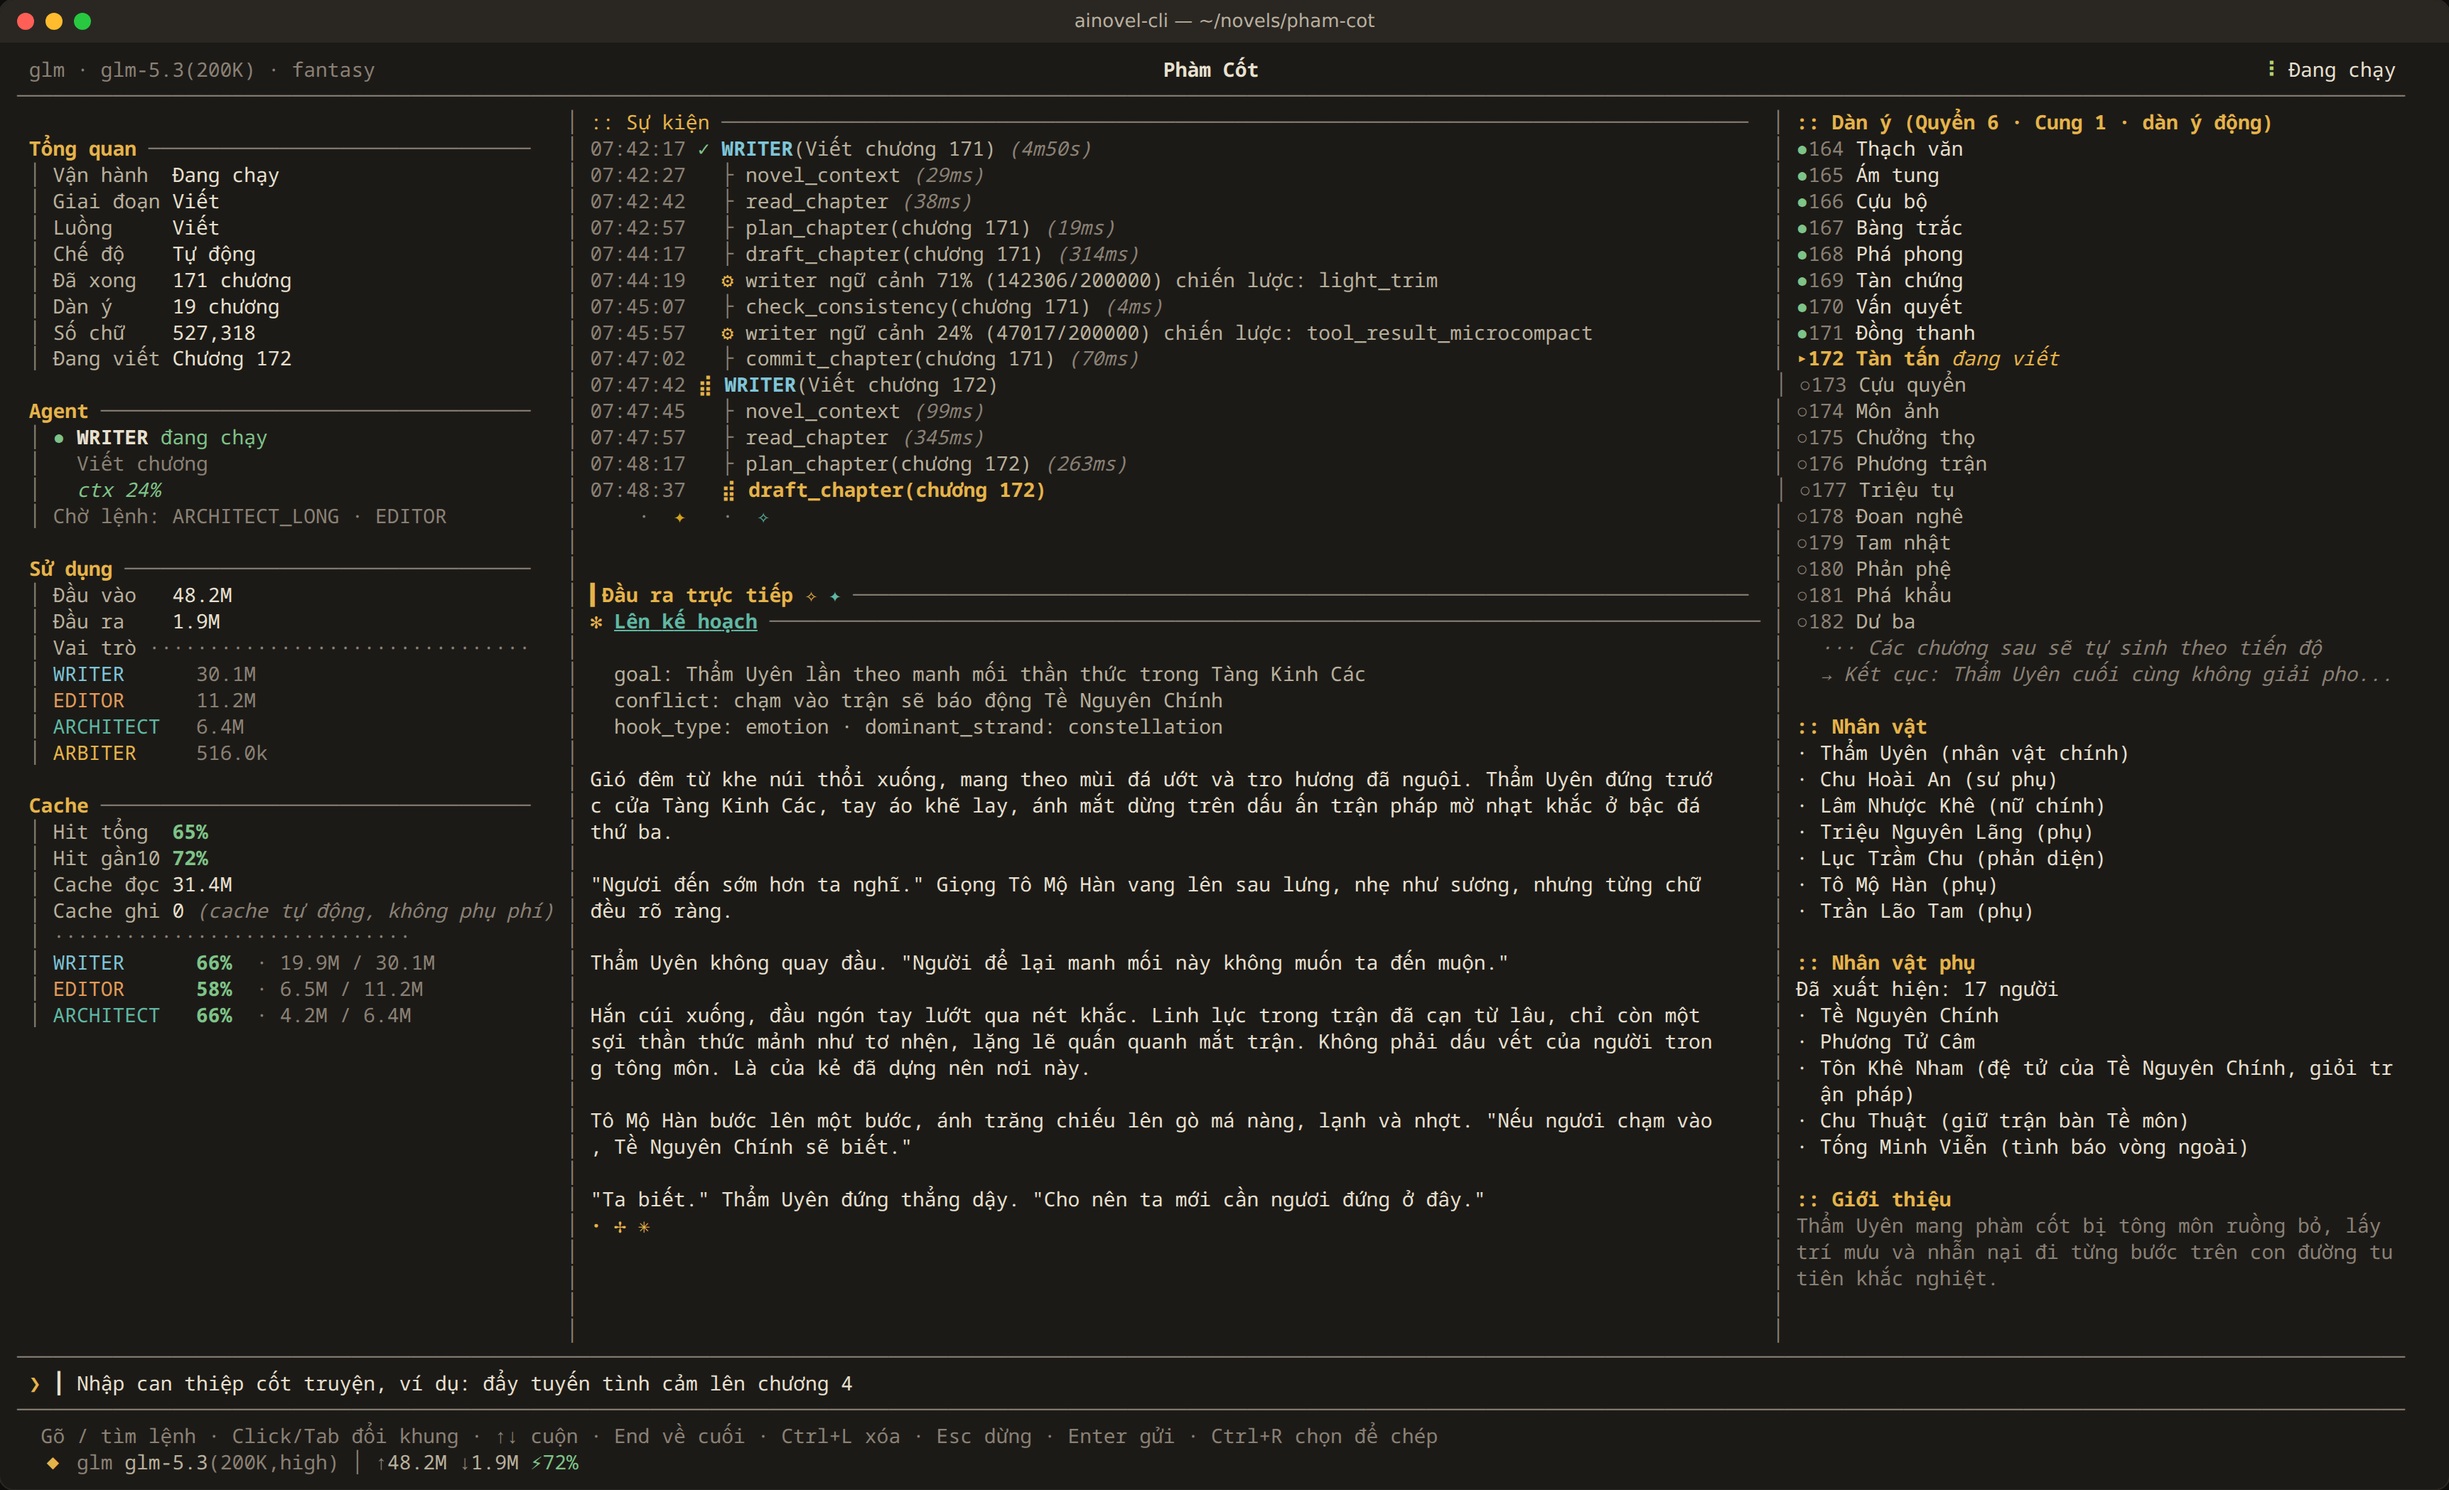
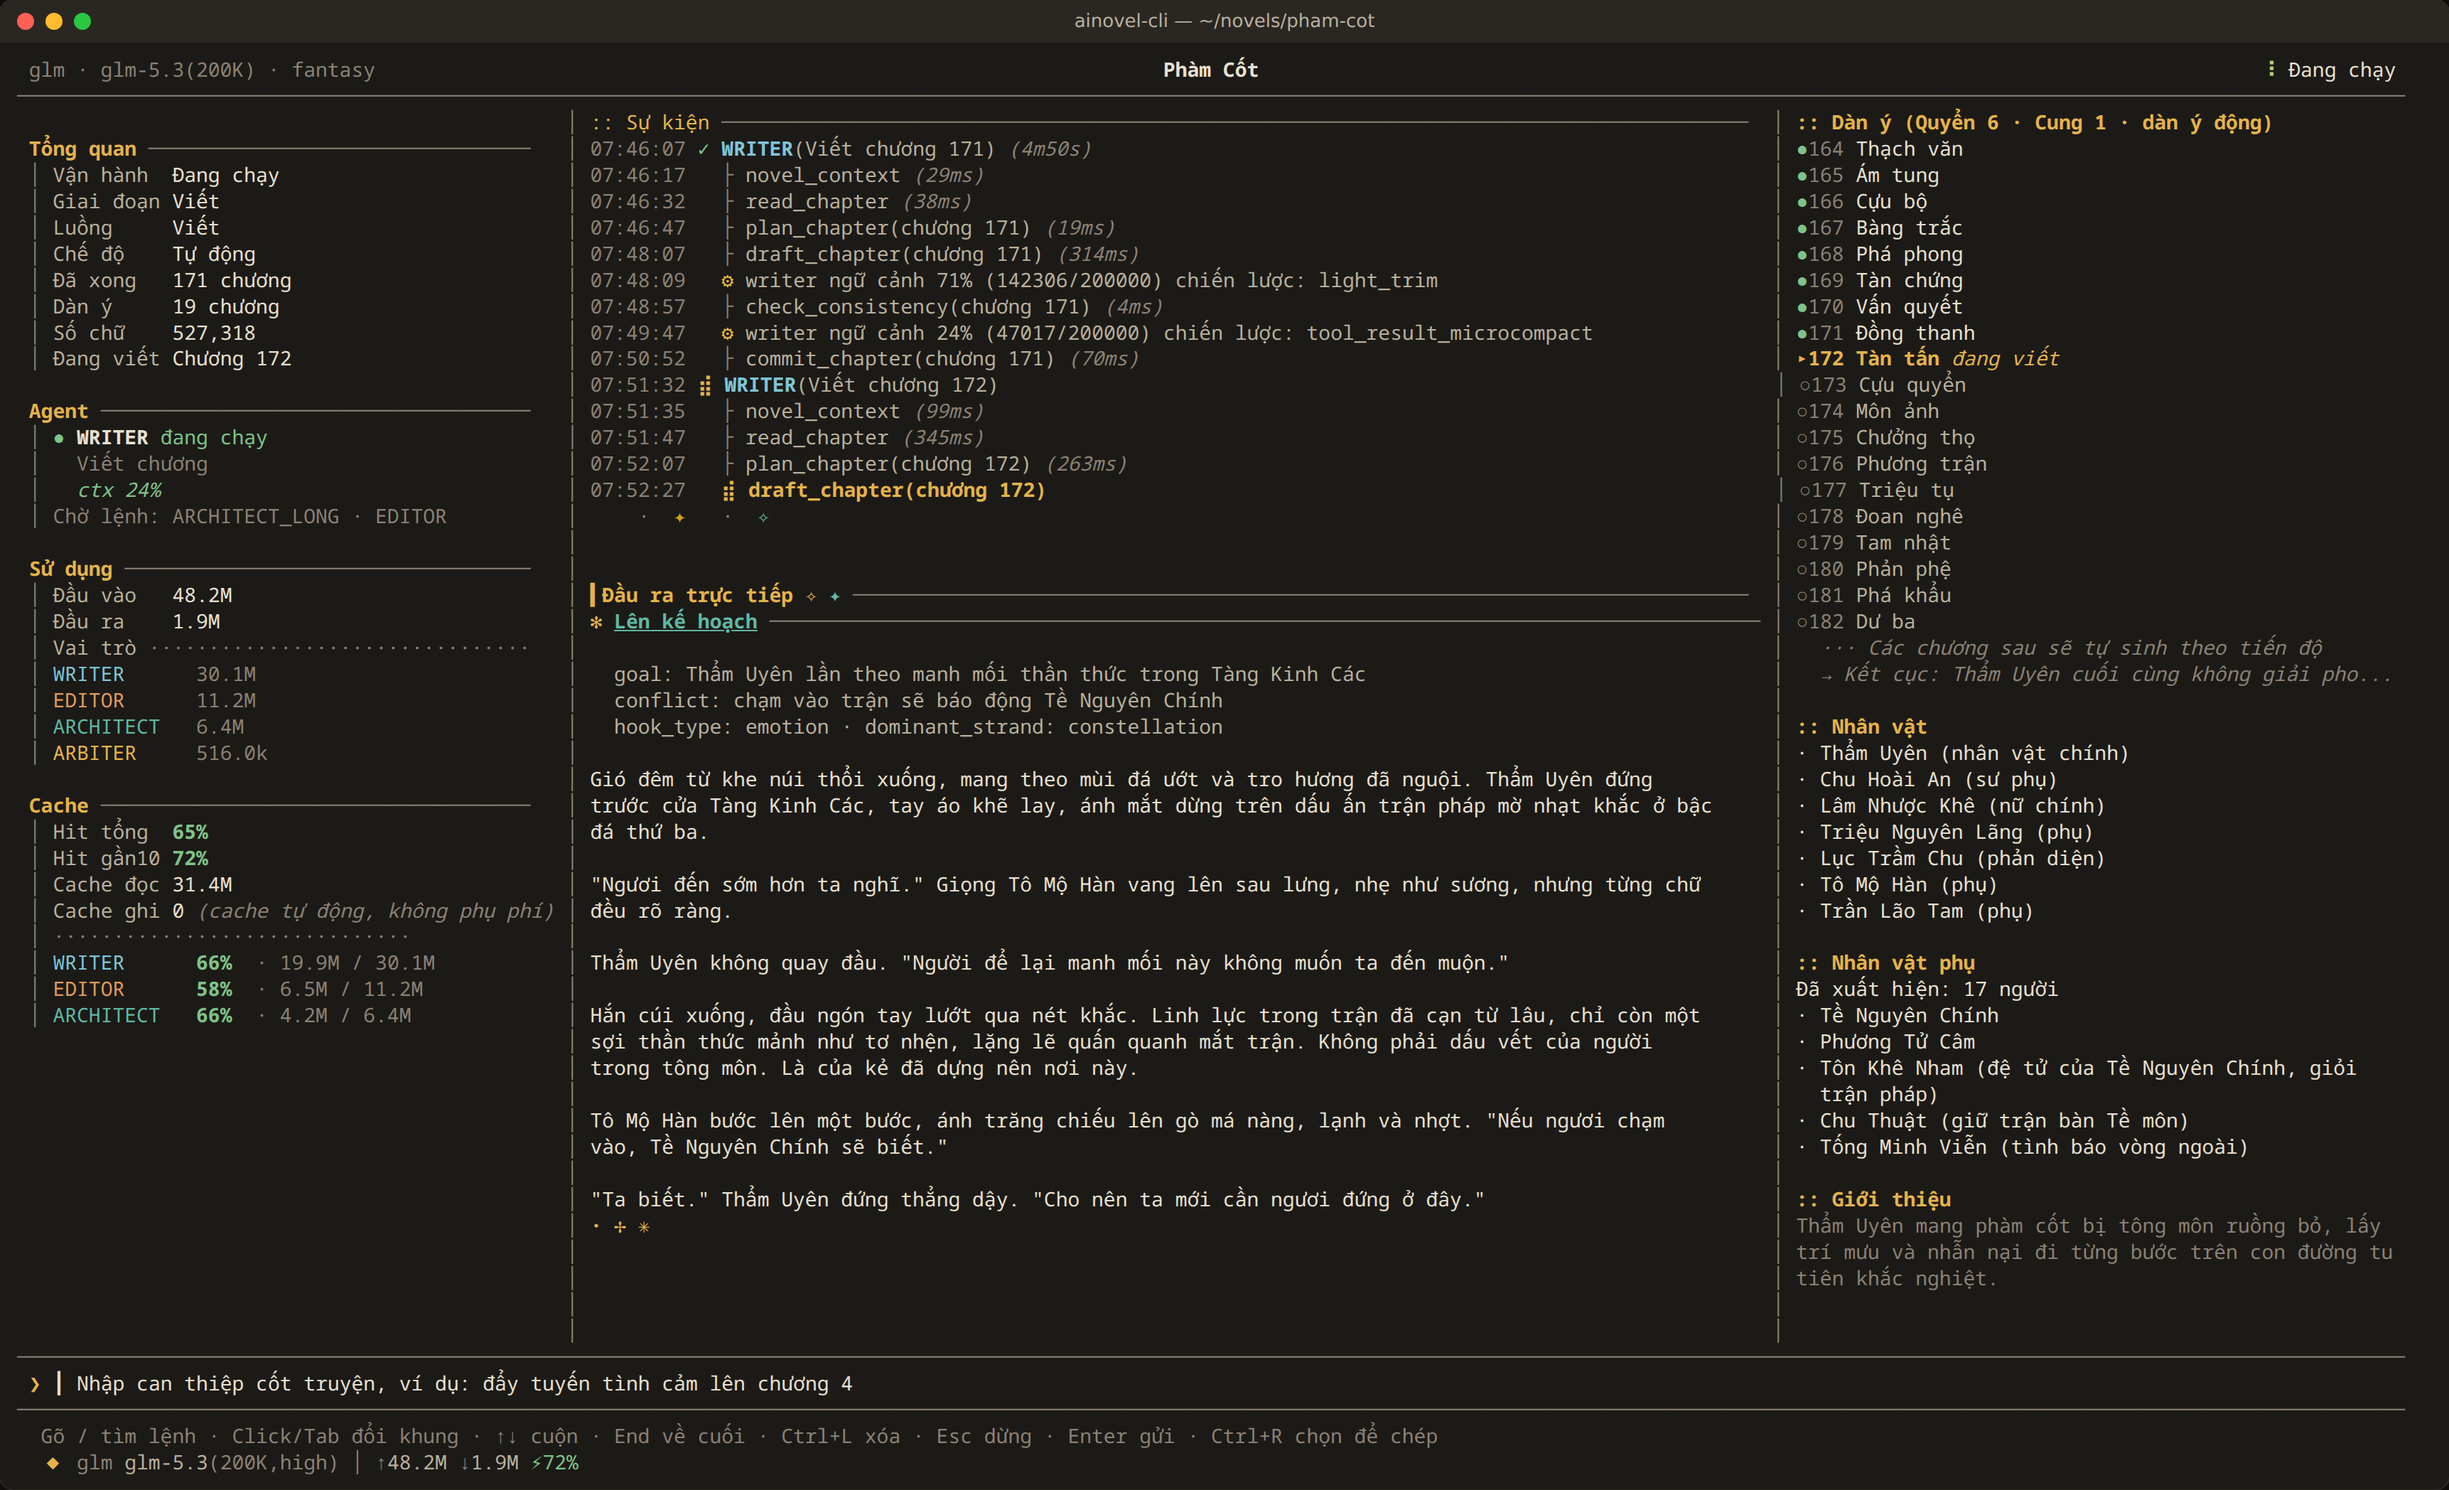
fix(tui): xuống dòng theo từ cho văn bản có dấu cách, không cắt đôi chữ tiếng Việt

diff --git a/internal/entry/tui/panels_activity.go b/internal/entry/tui/panels_activity.go
@@ -556,24 +556,44 @@ func wrapRunes(text string, width int) []string {
 	}
 
 	var lines []string
-	var current strings.Builder
+	var current []rune
 	currentWidth := 0
+	// lastSpace 是当前行最后一个空格的下标；按空格分词的文字（如越南语）在此断行，
+	// 避免把一个词拆到两行。中文等无空格文本仍逐字断行。
+	lastSpace := -1
 
 	for _, r := range text {
 		rw := lipgloss.Width(string(r))
 		if currentWidth > 0 && currentWidth+rw > width {
-			lines = append(lines, strings.TrimRight(current.String(), " "))
-			current.Reset()
-			currentWidth = 0
 			if r == ' ' {
+				lines = append(lines, strings.TrimRight(string(current), " "))
+				current, currentWidth, lastSpace = current[:0], 0, -1
 				continue
 			}
+			// 只在被带到下一行的尾词不超过半行时按词断行，
+			// 否则（超长 token、中英混排远处的空格）退回逐字硬断，避免行尾大片留白。
+			tail := []rune(nil)
+			if lastSpace >= 0 {
+				tail = current[lastSpace+1:]
+			}
+			if lastSpace > 0 && lipgloss.Width(string(tail)) <= width/2 {
+				lines = append(lines, strings.TrimRight(string(current[:lastSpace]), " "))
+				current = append([]rune(nil), tail...)
+				currentWidth = lipgloss.Width(string(current))
+			} else {
+				lines = append(lines, strings.TrimRight(string(current), " "))
+				current, currentWidth = current[:0], 0
+			}
+			lastSpace = -1
 		}
-		current.WriteRune(r)
+		if r == ' ' {
+			lastSpace = len(current)
+		}
+		current = append(current, r)
 		currentWidth += rw
 	}
-	if current.Len() > 0 {
-		lines = append(lines, strings.TrimRight(current.String(), " "))
+	if len(current) > 0 {
+		lines = append(lines, strings.TrimRight(string(current), " "))
 	}
 	if len(lines) == 0 {
 		return []string{""}

diff --git a/internal/entry/tui/panels_test.go b/internal/entry/tui/panels_test.go
@@ -204,3 +204,42 @@ func TestSidebarFieldLabelsFitLabelColumn(t *testing.T) {
 		}
 	}
 }
+
+func TestWrapRunesBreaksVietnameseAtWordBoundary(t *testing.T) {
+	text := "Gió đêm từ khe núi thổi xuống, mang theo mùi đá ướt và tro hương đã nguội."
+	lines := wrapRunes(text, 20)
+	words := map[string]bool{}
+	for _, w := range strings.Fields(text) {
+		words[w] = true
+	}
+	for _, line := range lines {
+		if lipgloss.Width(line) > 20 {
+			t.Fatalf("dòng vượt độ rộng: %q", line)
+		}
+		for _, w := range strings.Fields(line) {
+			if !words[w] {
+				t.Fatalf("từ bị cắt đôi khi xuống dòng: %q trong %q", w, lines)
+			}
+		}
+	}
+	if got := strings.Join(lines, " "); got != text {
+		t.Fatalf("nội dung bị thay đổi sau khi xuống dòng:\n%q\n%q", got, text)
+	}
+}
+
+func TestWrapRunesKeepsHardWrapForCJKAndLongTokens(t *testing.T) {
+	cjk := strings.Repeat("秦越在材料中发现线索", 3)
+	for _, line := range wrapRunes(cjk, 20) {
+		if lipgloss.Width(line) > 20 {
+			t.Fatalf("dòng CJK vượt độ rộng: %q", line)
+		}
+	}
+	if got := wrapRunes(cjk, 20); len(got) != 3 || lipgloss.Width(got[0]) != 20 {
+		t.Fatalf("CJK phải lấp đầy từng dòng, got %q", got)
+	}
+	long := "ab " + strings.Repeat("x", 30)
+	got := wrapRunes(long, 10)
+	if got[0] != "ab xxxxxxx" {
+		t.Fatalf("token quá dài phải cắt cứng thay vì để trống cuối dòng, got %q", got)
+	}
+}
